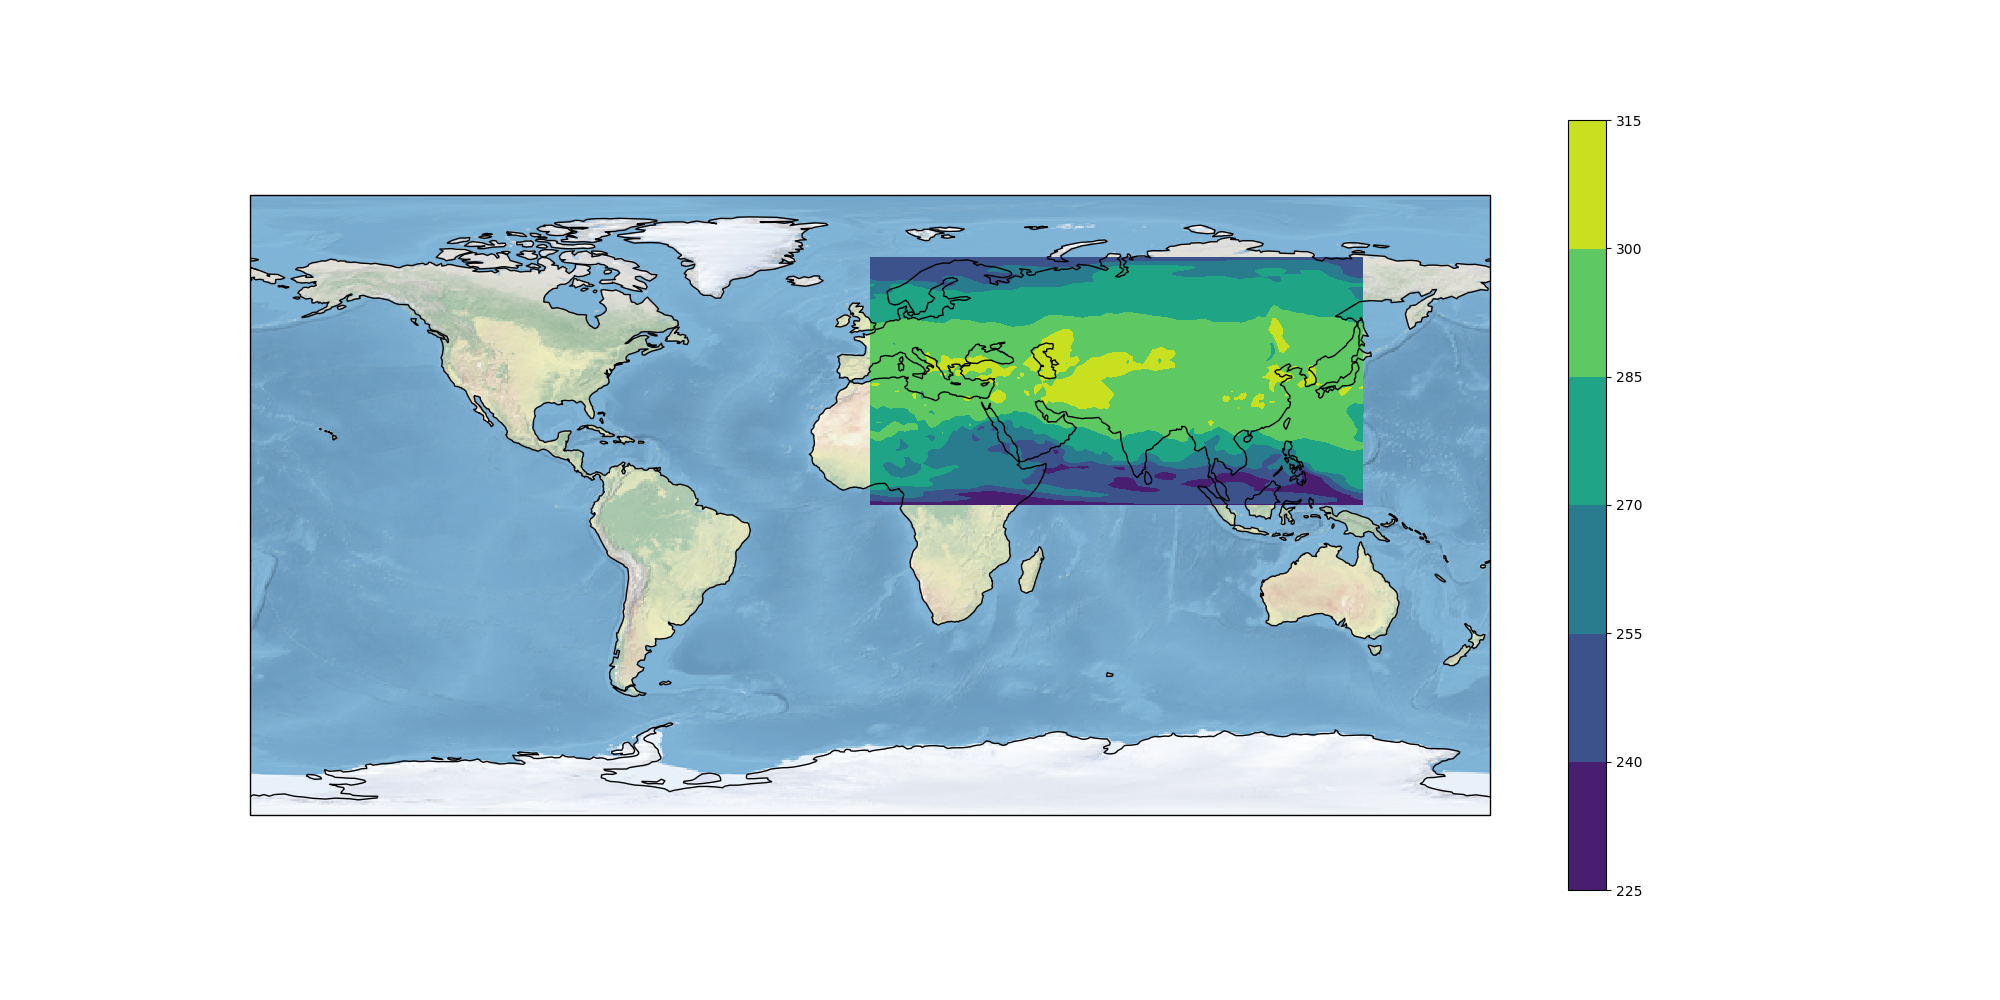
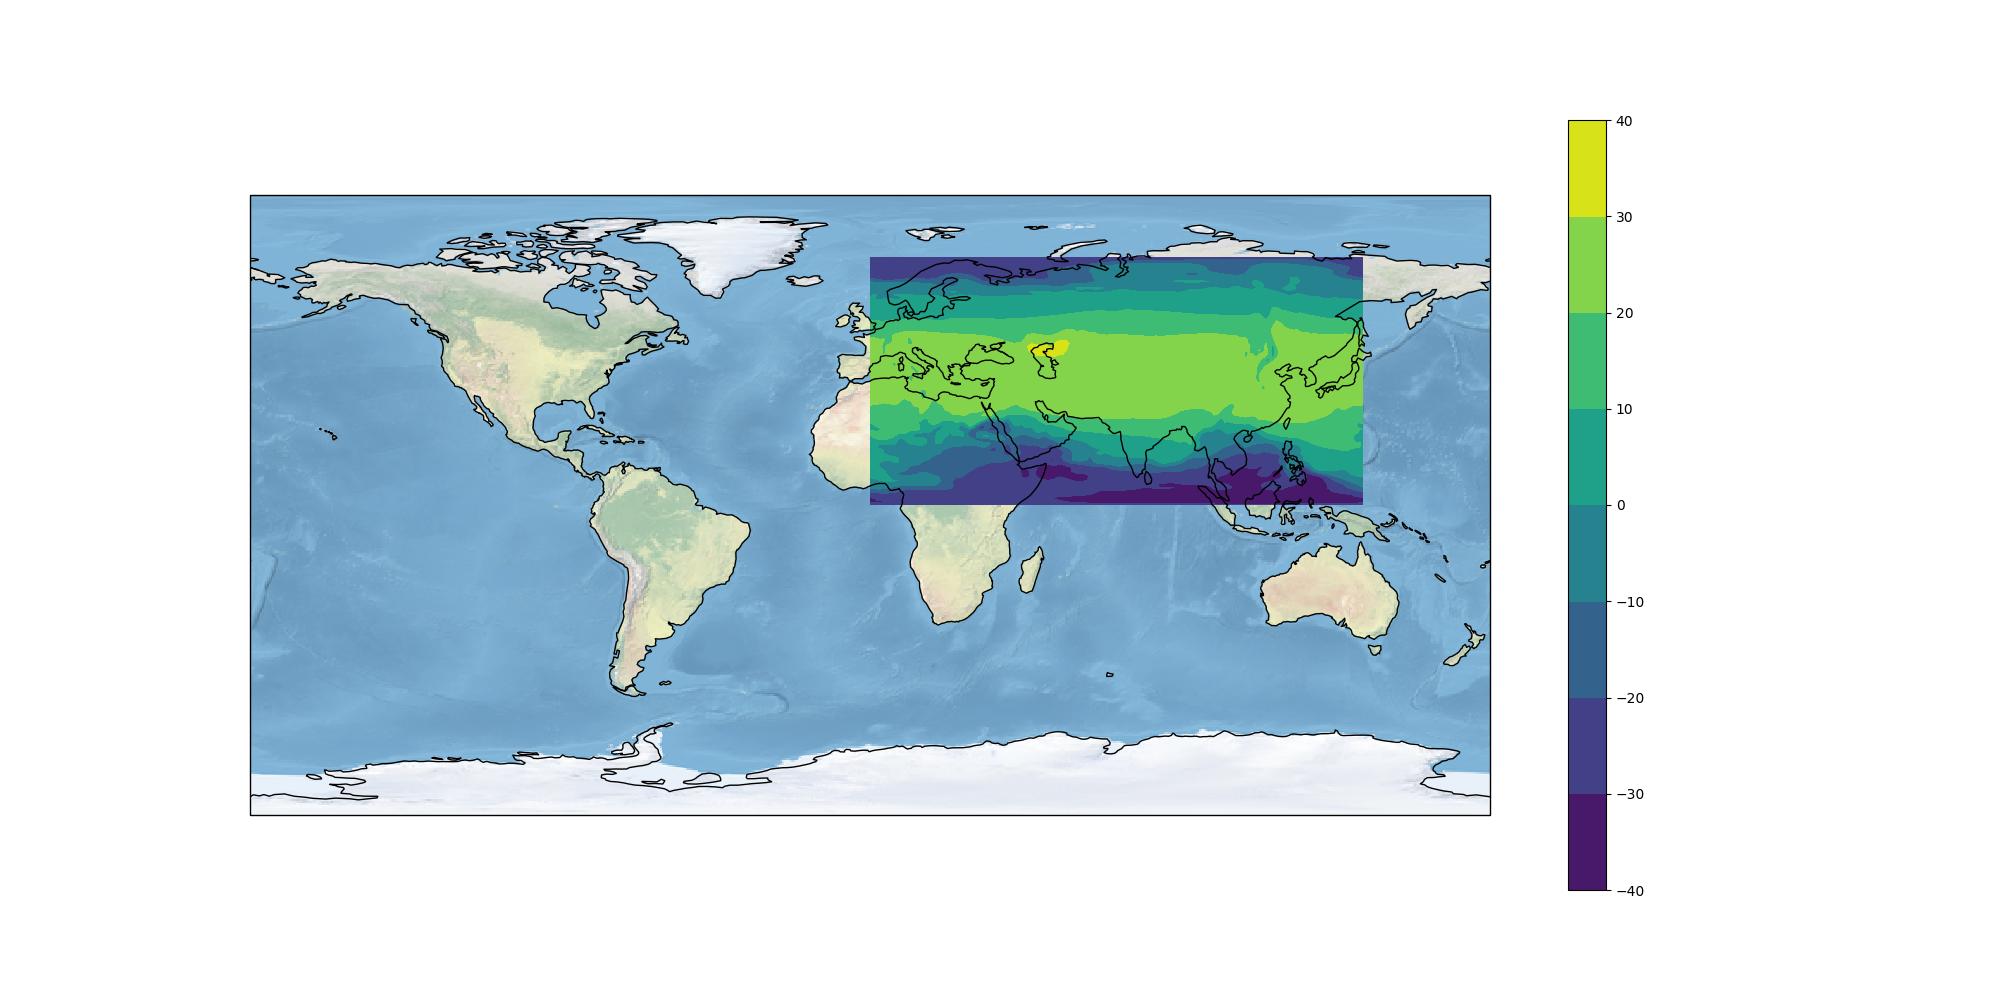
changed example netcdf file

diff --git a/myapp/processes/plotter.py b/myapp/processes/plotter.py
@@ -14,6 +14,8 @@ import matplotlib.pylab as plt
 import cartopy.crs as ccrs
 from netCDF4 import Dataset
 
+AIR_DS = 'https://www.esrl.noaa.gov/psd/thredds/fileServer/Datasets/ncep.reanalysis.derived/surface/air.mon.ltm.nc'
+
 
 def simple_plot(resource, variable=None, output=None):
     output = output or 'plot.png'
@@ -34,11 +36,11 @@ class SimplePlot(Process):
     def __init__(self):
         inputs = [
             ComplexInput('dataset', 'Dataset', supported_formats=[Format('application/x-netcdf')],
-                         default='https://www.esrl.noaa.gov/psd/thredds/fileServer/Datasets/ncep.reanalysis/surface/air.sig995.2012.nc',  # noqa
-                         abstract='Default: https://www.esrl.noaa.gov/psd/thredds/fileServer/Datasets/ncep.reanalysis/surface/air.sig995.2012.nc'),  # noqa
+                         default=AIR_DS,
+                         abstract='Example: {0}'.format(AIR_DS)),
             LiteralInput('variable', 'Variable', data_type='string',
                          default='air',
-                         abstract='Please enter the variable name to be plotted. Default: air'),
+                         abstract='Please enter the variable name to be plotted, example: air'),
         ]
         outputs = [
             ComplexOutput('output', 'Simple Plot', supported_formats=[Format('image/png')],

diff --git a/README.rst b/README.rst
@@ -155,7 +155,7 @@ Generate a simple plot for a netCDF file from a public thredds server::
   $ birdy simple_plot -h
   $ birdy simple_plot \
     --variable air \
-    --dataset https://www.esrl.noaa.gov/psd/thredds/fileServer/Datasets/ncep.reanalysis/surface/air.sig995.2012.nc
+    --dataset https://www.esrl.noaa.gov/psd/thredds/fileServer/Datasets/ncep.reanalysis.derived/surface/air.mon.ltm.nc
  [ProcessAccepted 0/100] PyWPS Process simple_plot accepted
  [ProcessSucceeded 0/100] PyWPS Process Simple Plot finished
  Output:
